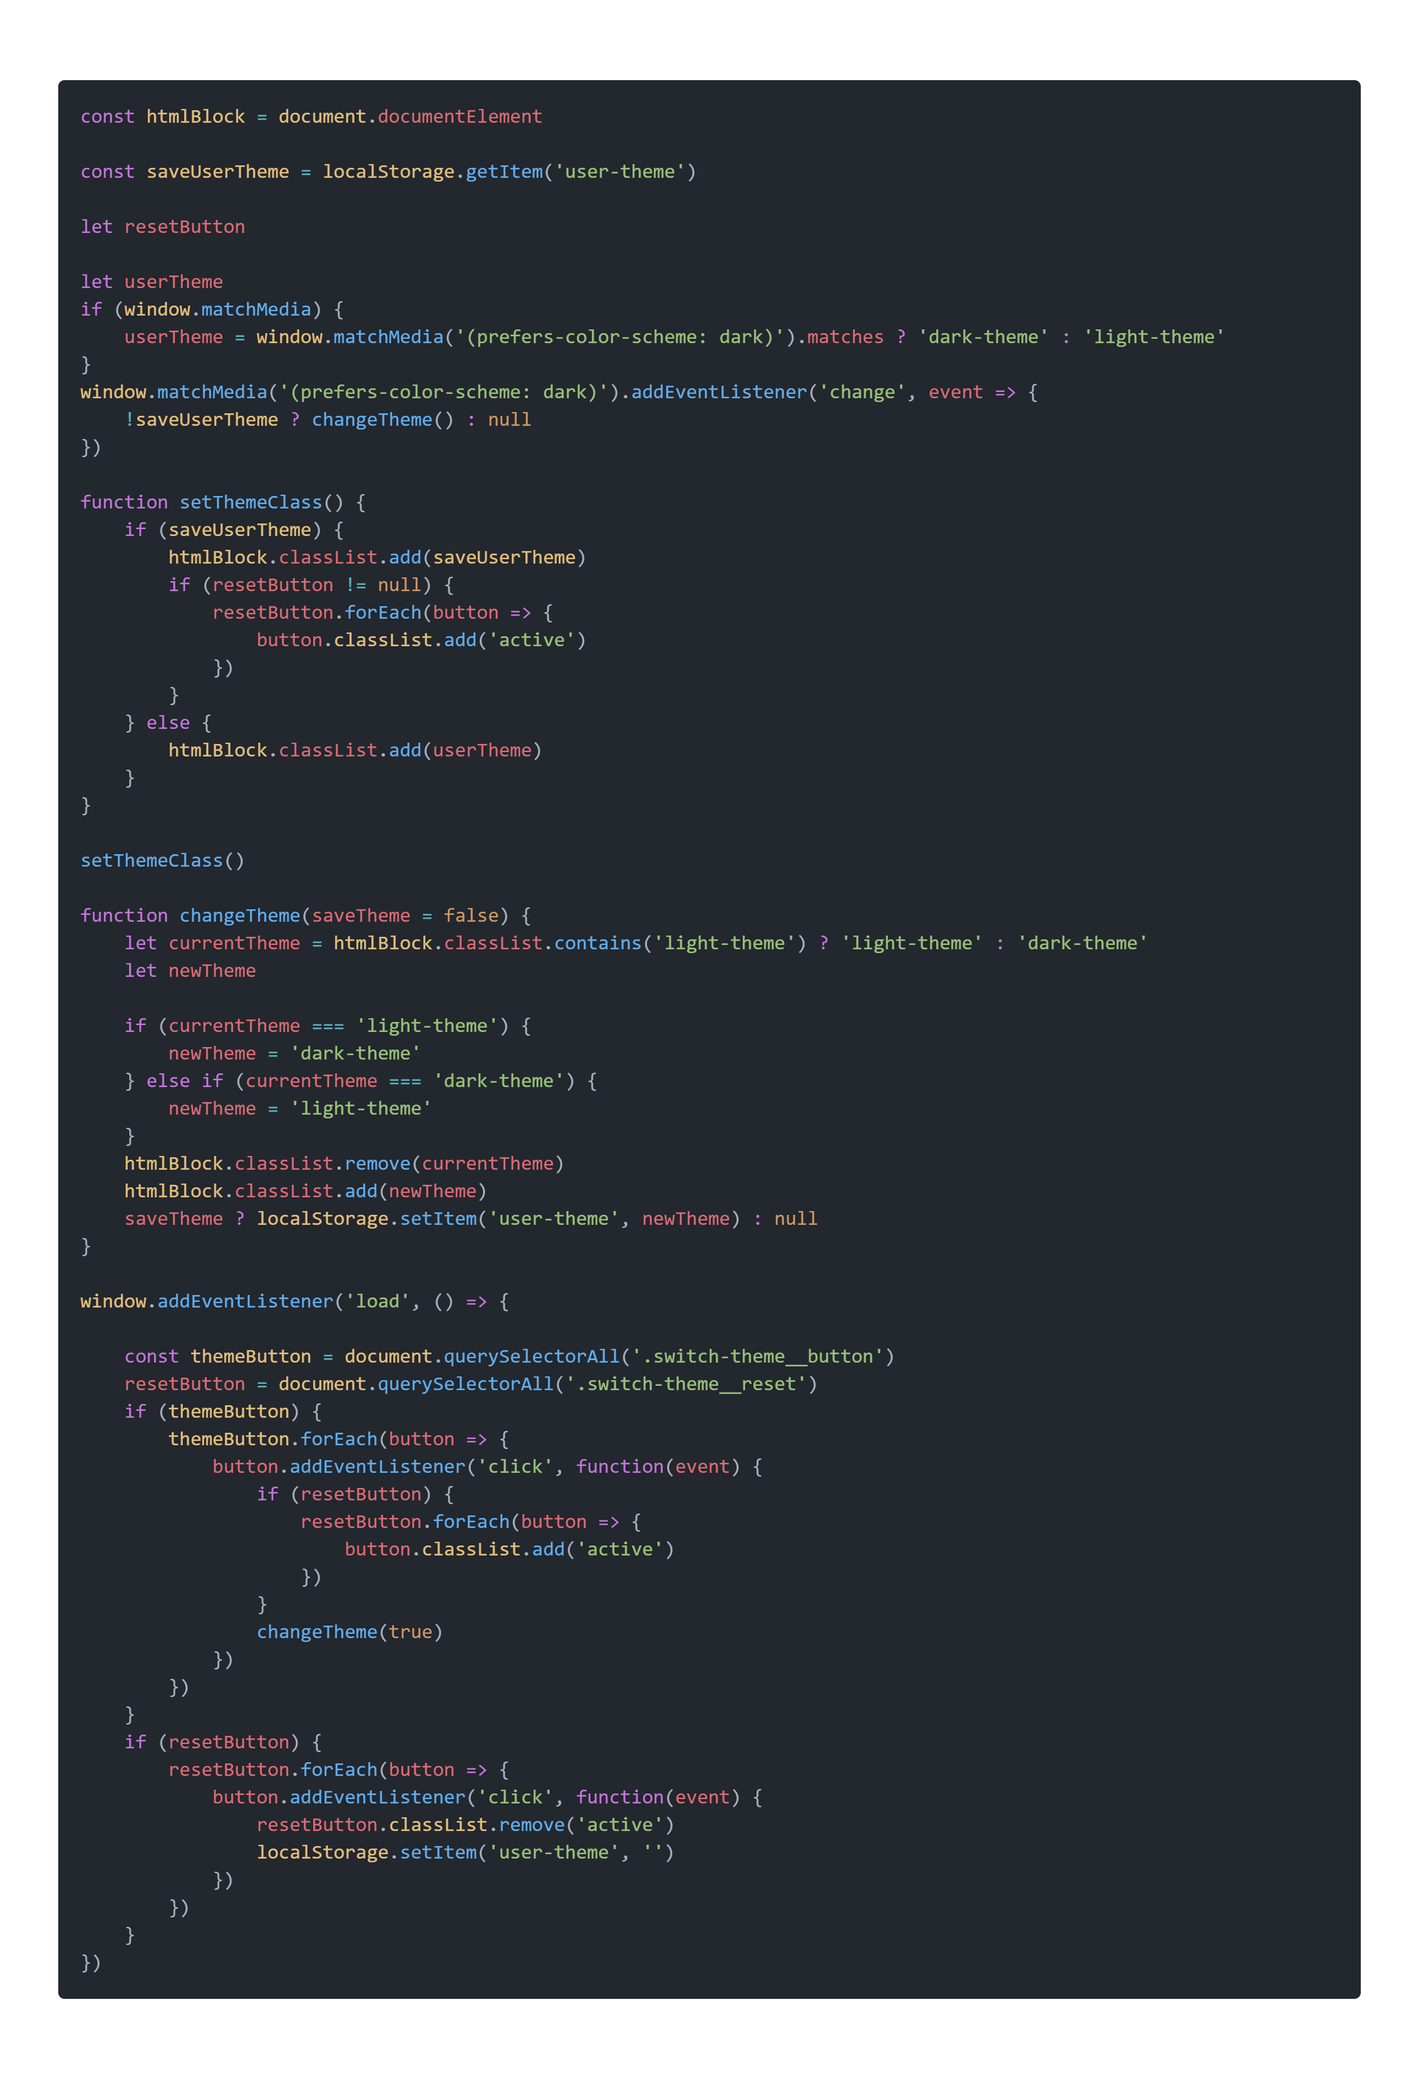
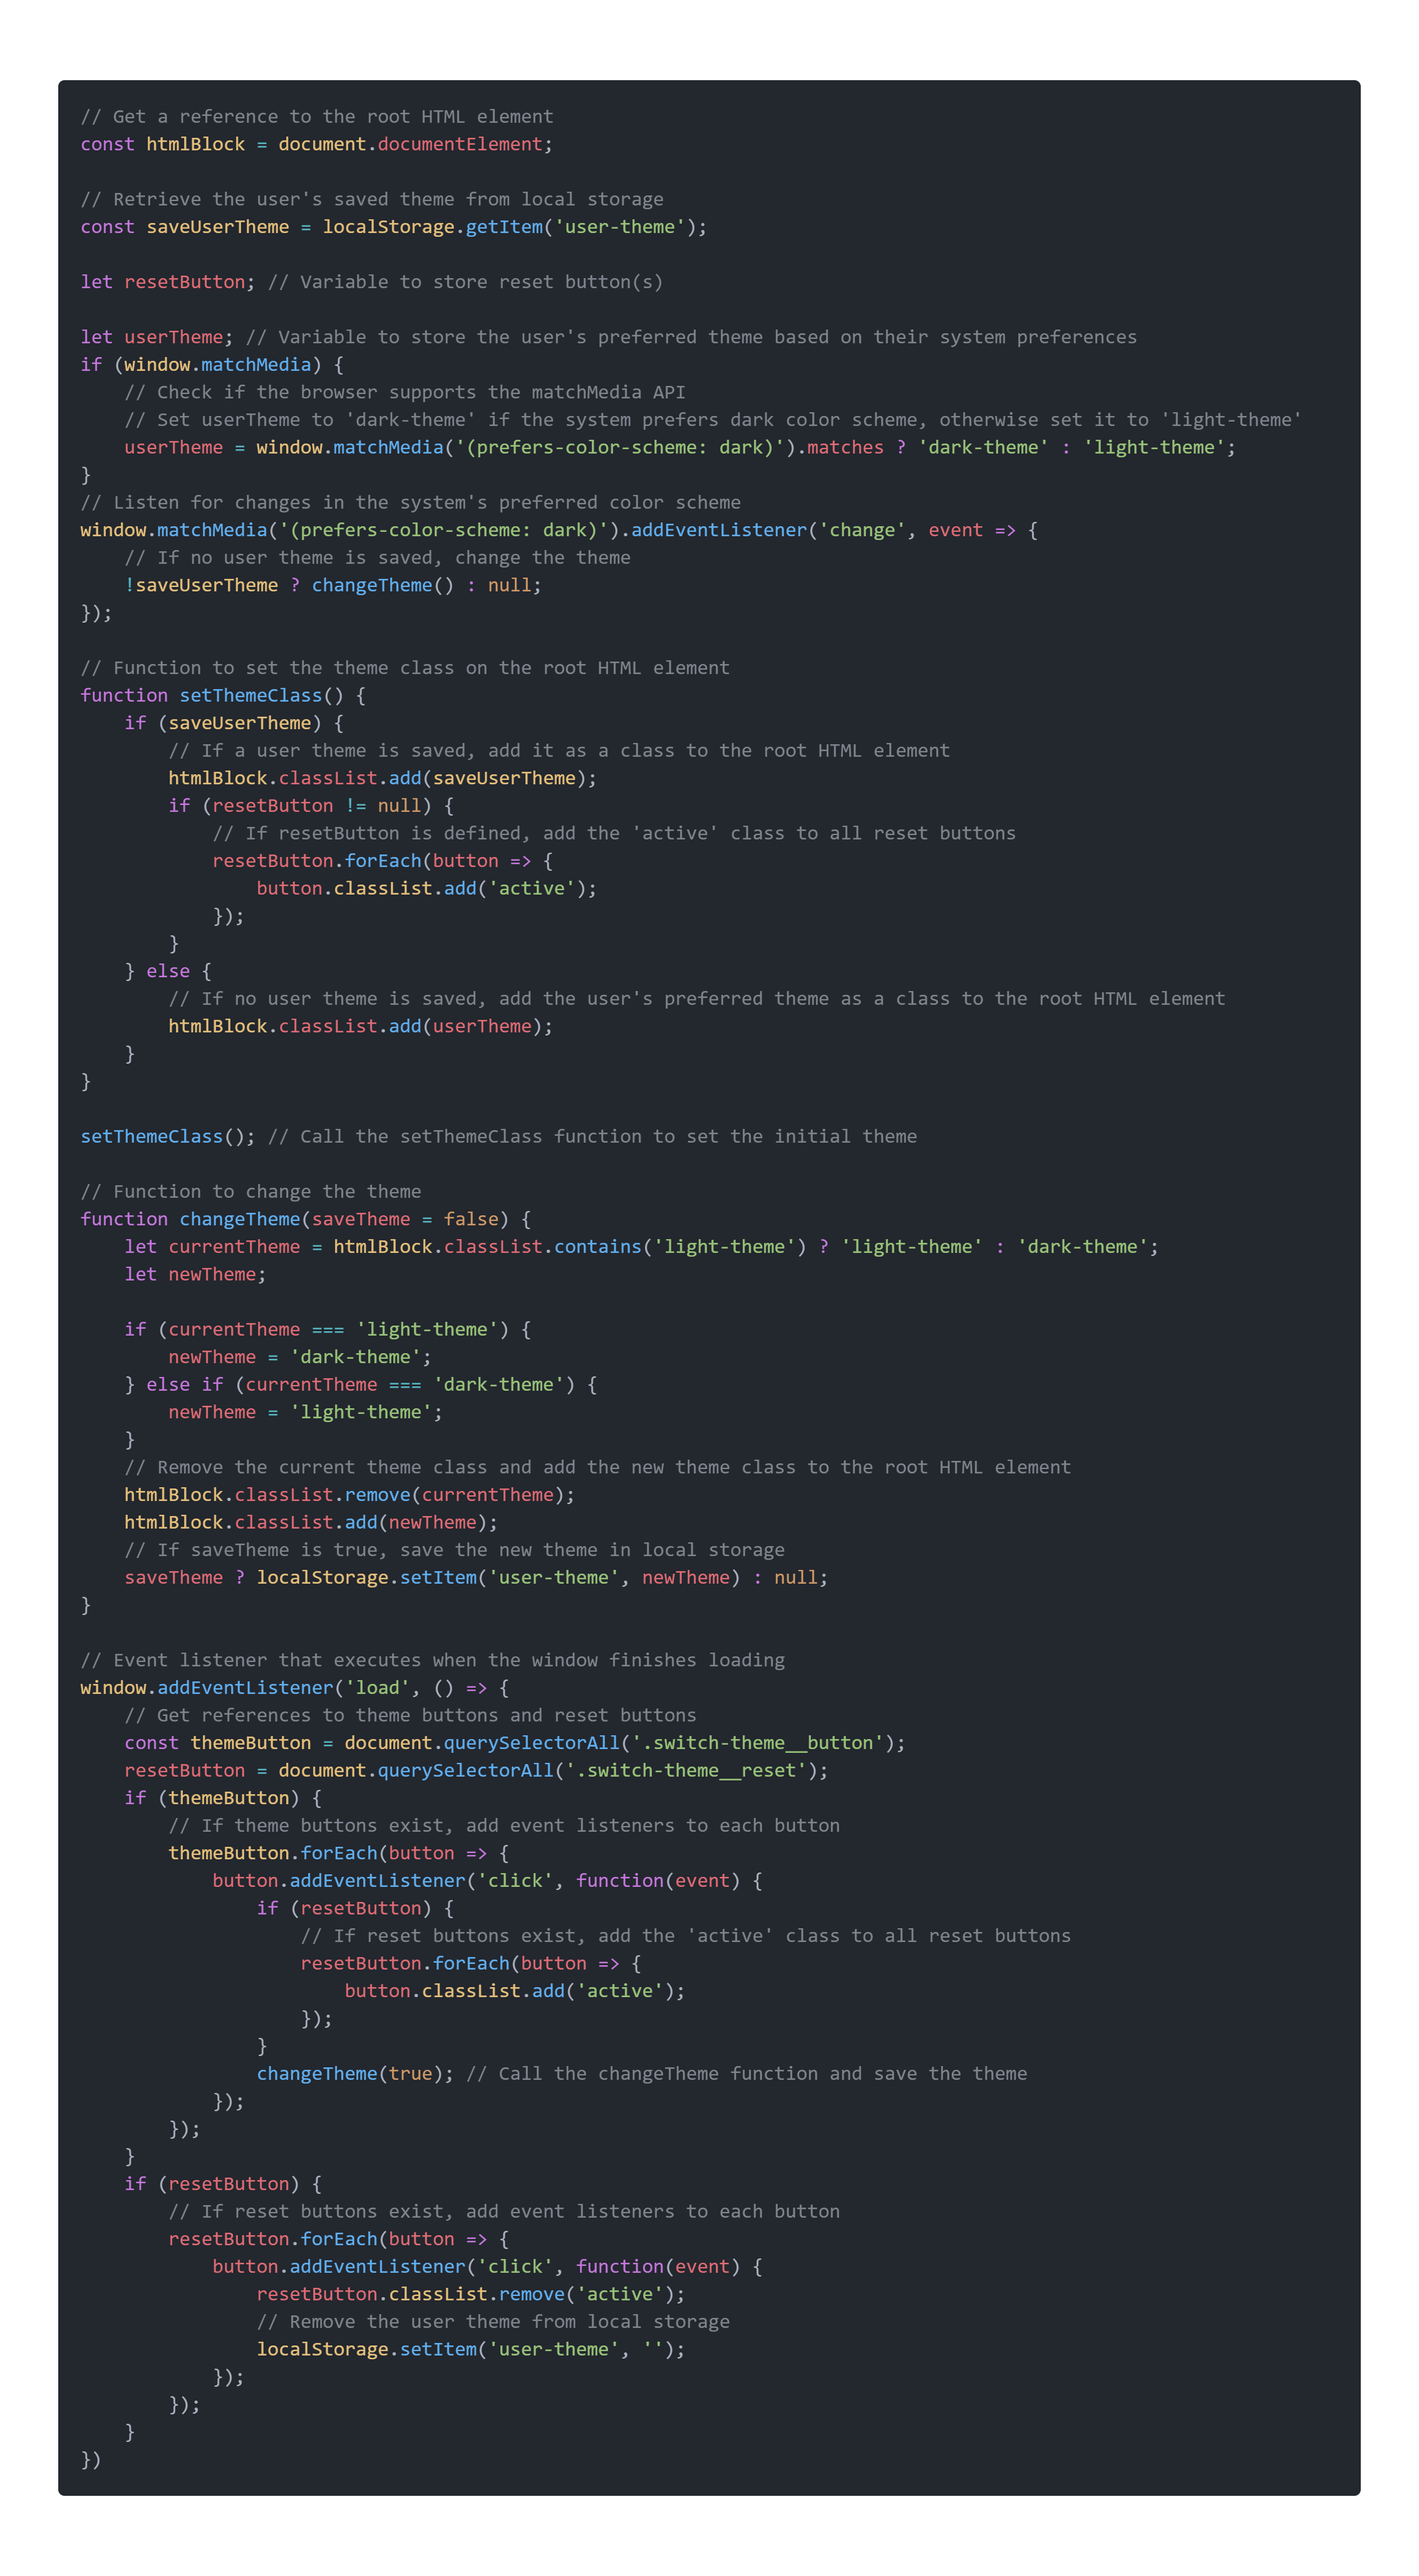
Added comments to script

diff --git a/switcher/assets/theme-switcher.js b/switcher/assets/theme-switcher.js
@@ -1,68 +1,86 @@
-const htmlBlock = document.documentElement
+// Get a reference to the root HTML element
+const htmlBlock = document.documentElement;
 
-const saveUserTheme = localStorage.getItem('user-theme')
+// Retrieve the user's saved theme from local storage
+const saveUserTheme = localStorage.getItem('user-theme');
 
-let resetButton
+let resetButton; // Variable to store reset button(s)
 
-let userTheme
+let userTheme; // Variable to store the user's preferred theme based on their system preferences
 if (window.matchMedia) {
-    userTheme = window.matchMedia('(prefers-color-scheme: dark)').matches ? 'dark-theme' : 'light-theme'
+    // Check if the browser supports the matchMedia API
+    // Set userTheme to 'dark-theme' if the system prefers dark color scheme, otherwise set it to 'light-theme'
+    userTheme = window.matchMedia('(prefers-color-scheme: dark)').matches ? 'dark-theme' : 'light-theme';
 }
+// Listen for changes in the system's preferred color scheme
 window.matchMedia('(prefers-color-scheme: dark)').addEventListener('change', event => {
-    !saveUserTheme ? changeTheme() : null
-})
+    // If no user theme is saved, change the theme
+    !saveUserTheme ? changeTheme() : null;
+});
 
+// Function to set the theme class on the root HTML element
 function setThemeClass() {
     if (saveUserTheme) {
-        htmlBlock.classList.add(saveUserTheme)
+        // If a user theme is saved, add it as a class to the root HTML element
+        htmlBlock.classList.add(saveUserTheme);
         if (resetButton != null) {
+            // If resetButton is defined, add the 'active' class to all reset buttons
             resetButton.forEach(button => {
-                button.classList.add('active')
-            })
+                button.classList.add('active');
+            });
         }
     } else {
-        htmlBlock.classList.add(userTheme)
+        // If no user theme is saved, add the user's preferred theme as a class to the root HTML element
+        htmlBlock.classList.add(userTheme);
     }
 }
 
-setThemeClass()
+setThemeClass(); // Call the setThemeClass function to set the initial theme
 
+// Function to change the theme
 function changeTheme(saveTheme = false) {
-    let currentTheme = htmlBlock.classList.contains('light-theme') ? 'light-theme' : 'dark-theme'
-    let newTheme
+    let currentTheme = htmlBlock.classList.contains('light-theme') ? 'light-theme' : 'dark-theme';
+    let newTheme;
 
     if (currentTheme === 'light-theme') {
-        newTheme = 'dark-theme'
+        newTheme = 'dark-theme';
     } else if (currentTheme === 'dark-theme') {
-        newTheme = 'light-theme'
+        newTheme = 'light-theme';
     }
-    htmlBlock.classList.remove(currentTheme)
-    htmlBlock.classList.add(newTheme)
-    saveTheme ? localStorage.setItem('user-theme', newTheme) : null
+    // Remove the current theme class and add the new theme class to the root HTML element
+    htmlBlock.classList.remove(currentTheme);
+    htmlBlock.classList.add(newTheme);
+    // If saveTheme is true, save the new theme in local storage
+    saveTheme ? localStorage.setItem('user-theme', newTheme) : null;
 }
 
+// Event listener that executes when the window finishes loading
 window.addEventListener('load', () => {
-
-    const themeButton = document.querySelectorAll('.switch-theme__button')
-    resetButton = document.querySelectorAll('.switch-theme__reset')
+    // Get references to theme buttons and reset buttons
+    const themeButton = document.querySelectorAll('.switch-theme__button');
+    resetButton = document.querySelectorAll('.switch-theme__reset');
     if (themeButton) {
+        // If theme buttons exist, add event listeners to each button
         themeButton.forEach(button => {
             button.addEventListener('click', function(event) {
                 if (resetButton) {
+                    // If reset buttons exist, add the 'active' class to all reset buttons
                     resetButton.forEach(button => {
-                        button.classList.add('active')
-                    })
+                        button.classList.add('active');
+                    });
                 }
-                changeTheme(true)
-            })
-        })
+                changeTheme(true); // Call the changeTheme function and save the theme
+            });
+        });
     }
     if (resetButton) {
+        // If reset buttons exist, add event listeners to each button
         resetButton.forEach(button => {
             button.addEventListener('click', function(event) {
-                resetButton.classList.remove('active')
-                localStorage.setItem('user-theme', '')
-            })
-        })
+                resetButton.classList.remove('active');
+                // Remove the user theme from local storage
+                localStorage.setItem('user-theme', '');
+            });
+        });
     }
 })
